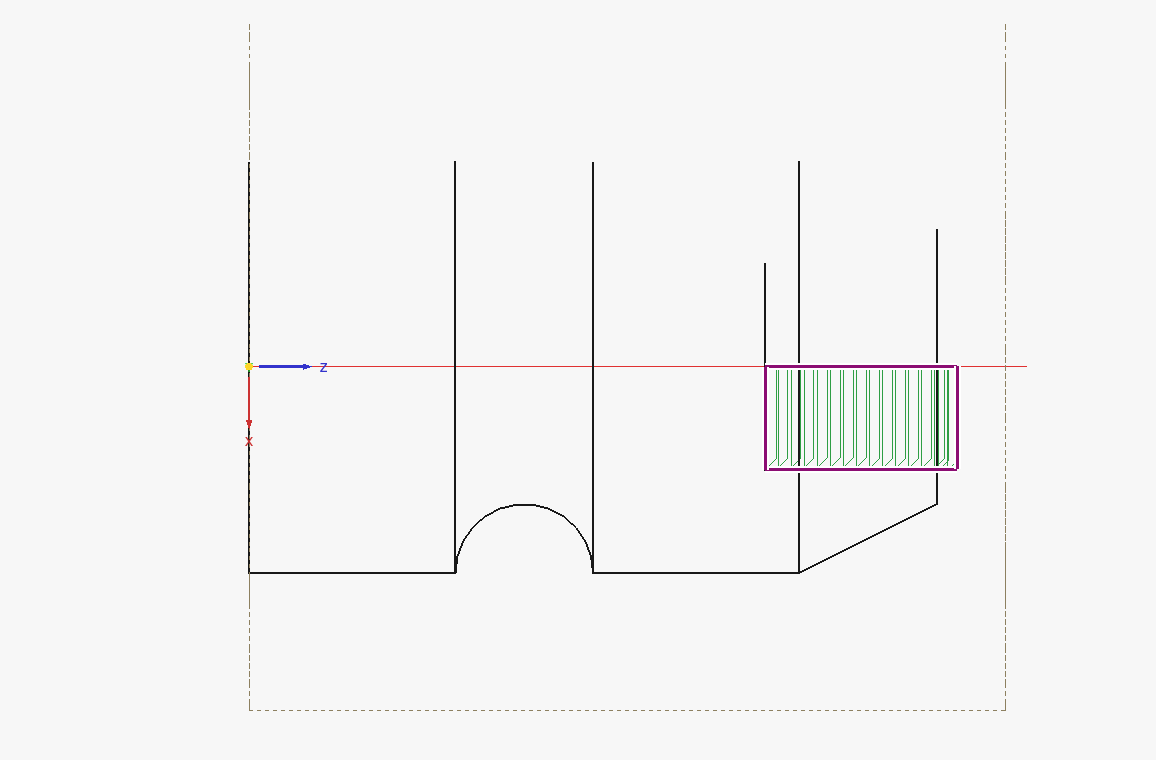
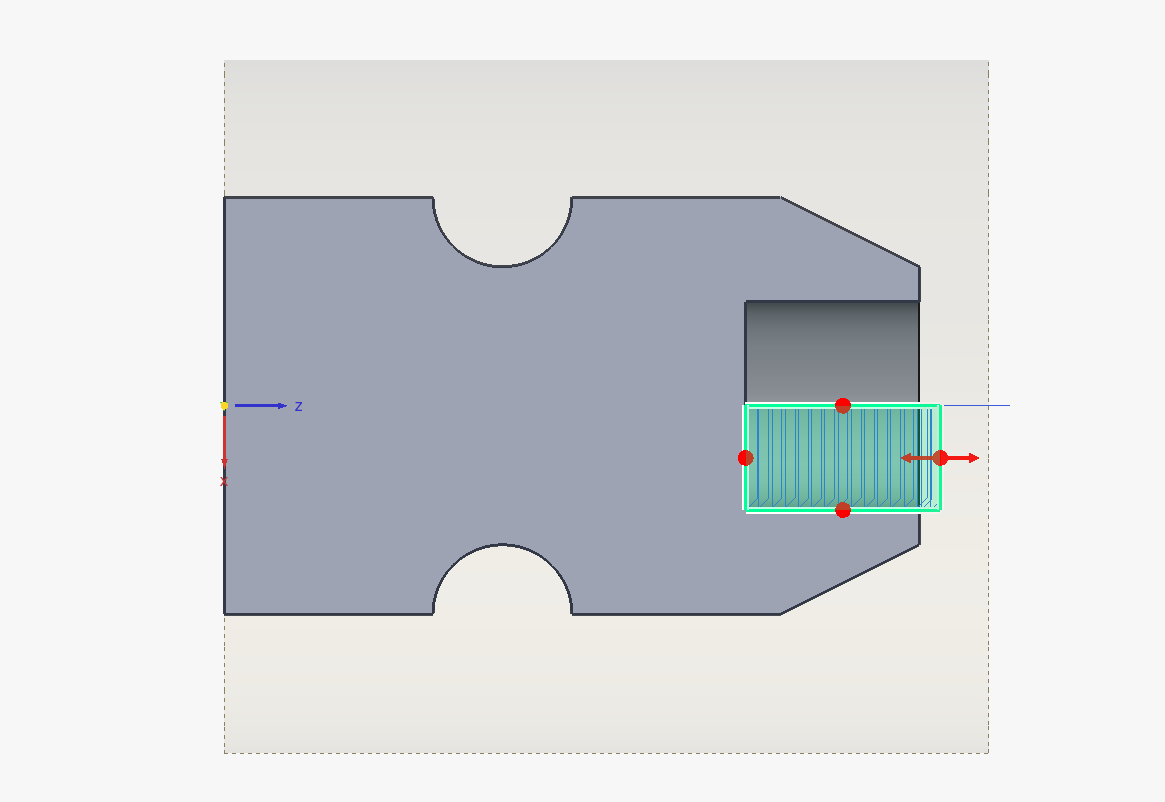
Update readme

diff --git a/README.md b/README.md
@@ -6,10 +6,15 @@ A FreeCAD CAM workbench addon for creating CNC lathe toolpaths.
 
 ## Features
 
-- Turning roughing, including facing and grooving
-- Turning profiling, parting, threading, and drilling
-- A turning tool library and toolpath simulation
-- Containment controls and a remaining-stock guide
+- Roughing: clears material with axial or radial cuts, including facing and grooving
+- Profiling: follows the part shape with offset passes
+- Drilling: drills holes on the spindle centreline
+- Threading: cuts external threads (does not currently produce valid G-code; see [#65](https://github.com/dubstar-04/TurningAddon/issues/65))
+- Parting: cuts through the workpiece to separate a finished part
+- Tool Library: Create and edit turning tools.
+- Simulation: Preview and navigate toolpaths.
+- Containment: Set machining limits for each operation.
+- Remaining Stock: View stock before or after an operation.
 
 ## Requirements
 
@@ -31,24 +36,43 @@ The addon is available from **CAM > CAM Addons > Turning Addon**.
   </tr>
   <tr>
     <td align="center"><strong>Boring</strong><br><img src="Screenshots/screenshot_op_bore.png" alt="Boring toolpath"></td>
-    <td align="center"><strong>Containment</strong><br><img src="Screenshots/screenshot_containment.png" alt="Containment bounds"></td>
+    <td align="center"><strong>Threading</strong><br><img src="Screenshots/screenshot_op_threading.png" alt="Threading toolpath"></td>
   </tr>
 </table>
 
-## Tools and simulation
+### Tool Management
 
-Use the **Turning Tool Library** to create and edit tools. The containment controls set operation bounds, and the remaining-stock guide shows stock before or after an operation. Use **Turning Simulation** to preview a toolpath.
+- Use the **Turning Tool Library** to create and edit tools.
 
-<table>
-  <tr>
-    <td align="center"><strong>Tool library</strong><br><img src="Screenshots/screenshot_toollibrary.png" alt="Turning Tool Library"></td>
-    <td align="center"><strong>ToolBit shapes</strong><br><img src="Screenshots/screenshot_toollibrary_shape.png" alt="ToolBit shape selection"></td>
-  </tr>
-  <tr>
-    <td align="center"><strong>Remaining-stock guide</strong><br><img src="Screenshots/screenshot_remainingstock.png" alt="Remaining-stock guide"></td>
-    <td align="center"><strong>Simulation</strong><br><img src="Screenshots/screenshot_simulation.png" alt="Turning simulation"></td>
-  </tr>
-</table>
+<img src="Screenshots/screenshot_toollibrary.png" alt="Turning Tool Library" width="640">
+
+<img src="Screenshots/screenshot_toollibrary_shape.png" alt="ToolBit shape selection" width="640">
+
+### Containment
+
+- Containment sets the area an operation can machine.
+- While editing, a section view shows the limits on the model.
+- Drag the handles to change a limit.
+- Handles snap to model edges.
+
+<img src="Screenshots/screenshot_containment.png" alt="Containment bounds" width="640">
+
+### Remaining Stock
+
+- View stock before or after an operation.
+
+<img src="Screenshots/screenshot_remainingstock.png" alt="Remaining-stock guide" width="640">
+
+### Simulation
+
+- Choose which operations to simulate.
+- Click an operation to jump to it.
+- Scrub the timeline.
+- Step forward or back 1 mm.
+- Skip to the previous or next operation.
+- Choose a simulation engine. More than one engine is available to help with development and testing.
+
+<img src="Screenshots/screenshot_simulation.png" alt="Turning simulation" width="640">
 
 ## License
 
